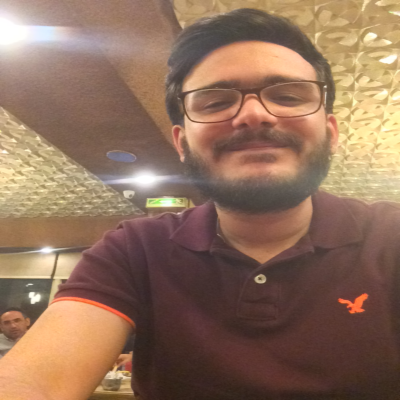
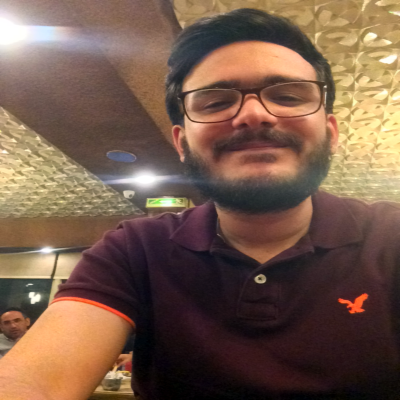
Changed Projects layout

diff --git a/index.html b/index.html
@@ -68,7 +68,7 @@
         <link rel="stylesheet" href="./src/css/style.css">
 
         <!-- ReCAPTCHA -->
-        <script src='https://www.google.com/recaptcha/api.js'></script>
+        <script src="https://www.google.com/recaptcha/api.js"></script>
     </head>
 
     <body>
@@ -76,7 +76,7 @@
             <header id="main-header">
                 <div class="row no-gutters">
                     <div class="col-lg-4 col-md-5 col-sm-12">
-                        <img src="./src/img/me2.png" alt="Osama Abbas Photo" title="My Photo">
+                        <img src="./src/img/me.png" alt="Osama Abbas Photo" title="My Photo">
                     </div>
                     <div class="col-lg-8 col-md-7 col-sm-12">
                         <div class="d-flex flex-column">
@@ -297,45 +297,45 @@
                 <div class="card card-body py-5">
                     <h3 class="text-center">What Have I Built so far</h3>
                     <small class="d-block text-center text-muted mb-5">Don't waste time here just contact me. LOL!</small>
-                    <div class="row justify-content-center">
-                        <div class="col-md-3 mb-4 projects-cols">
+                    <div class="card-columns">
+                        <div class="card mb-4 projects-cols">
                             <a href="./src/img/Picit.png" data-fancybox="images" data-caption="Not yet published" title="Picit">
-                                <img src="./src/img/Picit.png" class="img-fluid" alt="Photography Website" title="Picit">
+                                <img src="./src/img/Picit.png" class="card-img w-100" alt="Photography Website" title="Picit">
                             </a>
                         </div>
-                        <div class="col-md-3 mb-4 projects-cols">
+                        <div class="card mb-4 projects-cols">
                             <a href="./src/img/veeta.png" data-fancybox="images" data-caption="http://veeta-egypt.com/" title="Veeta Polymers Egypt">
-                                <img src="./src/img/veeta.png" class="img-fluid" alt="Veeta Polymers Egypt Website" title="Veeta Polymers Egypt">
+                                <img src="./src/img/veeta.png" class="card-img w-100" alt="Veeta Polymers Egypt Website" title="Veeta Polymers Egypt">
                             </a>
                         </div>
-                        <div class="col-md-3 mb-4 projects-cols">
+                        <div class="card mb-4 projects-cols">
                             <a href="./src/img/delta.png" data-fancybox="images" data-caption="https://www.drceg.com/" title="Delta Research Center">
-                                <img src="./src/img/delta.png" class="img-fluid" alt="Delta Research Center Website" title="Delta Research Center">
+                                <img src="./src/img/delta.png" class="card-img w-100" alt="Delta Research Center Website" title="Delta Research Center">
                             </a>
                         </div>
-                        <div class="col-md-3 mb-4 projects-cols">
+                        <div class="card mb-4 projects-cols">
                             <a href="./src/img/ihab-madi.png" data-fancybox="images" data-caption="http://ihabmadi.com/" title="Ihab Madi">
-                                <img src="./src/img/ihab-madi.png" class="img-fluid" alt="Ihab Madi Website" title="Ihab Madi Website">
+                                <img src="./src/img/ihab-madi.png" class="card-img w-100" alt="Ihab Madi Website" title="Ihab Madi Website">
                             </a>
                         </div>
-                        <div class="col-md-3 mb-4 projects-cols">
+                        <div class="card mb-4 projects-cols">
                             <a href="src/img/rowad2030.png" data-fancybox="images" data-caption="http://rowad2030.com/" title="Rowad2030">
-                                <img src="./src/img/rowad2030.png" class="img-fluid" alt="Rowad 2030" title="Rowad 2030">
+                                <img src="./src/img/rowad2030.png" class="card-img w-100" alt="Rowad 2030" title="Rowad 2030">
                             </a>
                         </div>
-                        <div class="col-md-3 mb-4 projects-cols">
+                        <div class="card mb-4 projects-cols">
                             <a href="./src/img/soufie.png" data-fancybox="images" data-caption="https://soufie.com/" title="Soufie">
-                                <img src="./src/img/soufie.png" class="img-fluid" alt="Soufie Website" title="Soufie Website">
+                                <img src="./src/img/soufie.png" class="card-img w-100" alt="Soufie Website" title="Soufie Website">
                             </a>
                         </div>
-                        <div class="col-md-3 mb-4 projects-cols">
+                        <div class="card mb-4 projects-cols">
                             <a href="./src/img/outreach.png" data-fancybox="images" data-caption="http://outreachegypt.com/" title="Outreach Egypt">
-                                <img src="./src/img/outreach.png" class="img-fluid" alt="Outreach Egypt Website" title="Outreach Egypt">
+                                <img src="./src/img/outreach.png" class="card-img w-100" alt="Outreach Egypt Website" title="Outreach Egypt">
                             </a>
                         </div>
-                        <div class="col-md-3 mb-4 projects-cols">
+                        <div class="card mb-4 projects-cols">
                             <a href="./src/img/not-found.png" data-caption="Meme design for 404 Page not found" data-fancybox="images" title="404 Page">
-                                <img src="./src/img/not-found.png" class="img-fluid" alt="404 Page not Found Design" title="Custom 404 Page not Found Page">
+                                <img src="./src/img/not-found.png" class="card-img w-100" alt="404 Page not Found Design" title="Custom 404 Page not Found Page">
                             </a>
                         </div>
                     </div>
@@ -349,10 +349,11 @@
                 </div>
                 <div class="alert alert-danger text-center my-4 mx-auto contact-alert" role="alert">
                     <h3>Currently
-                        <strong>unavailable</strong>!</h2>
-                        <h4>Please contact me through my
-                            <strong class="text-uppercase">social media</strong>
-                        </h4>
+                        <strong>unavailable</strong>
+                    </h3>
+                    <h4>Please contact me through my
+                        <strong class="text-uppercase">social media</strong>
+                    </h4>
                 </div>
                 <div class="card card-body py-5">
                     <h3>Get in Touch</h3>
@@ -364,7 +365,7 @@
                                         <span class="input-group-addon contact-pane text-white bg-danger">
                                             <i class="fa fa-user text-white"></i>
                                         </span>
-                                        <input class="form-control bg-dark text-white" type="text" placeholder="Your Name" required id="name">
+                                        <input class="form-control bg-dark text-white" type="text" placeholder="Your Name" id="name" disabled>
                                     </div>
                                 </div>
 
@@ -373,7 +374,7 @@
                                         <span class="input-group-addon contact-pane text-white bg-danger">
                                             <i class="fa fa-envelope text-white"></i>
                                         </span>
-                                        <input class="form-control bg-dark text-white" type="email" placeholder="Email Address" required id="email">
+                                        <input class="form-control bg-dark text-white" type="email" placeholder="Email Address" id="email" disabled>
                                     </div>
                                     <label class="text-muted">Your email will never be published to anyone</label>
                                 </div>
@@ -383,7 +384,7 @@
                                         <span class="input-group-addon contact-pane text-white bg-danger">
                                             <i class="fa fa-pencil text-white"></i>
                                         </span>
-                                        <textarea class="form-control bg-dark text-white" type="text" placeholder="Your Message" rows="5" required id="message"></textarea>
+                                        <textarea class="form-control bg-dark text-white" type="text" placeholder="Your Message" rows="5" id="message" disabled></textarea>
                                     </div>
                                 </div>
 
@@ -408,14 +409,14 @@
             <footer id="main-footer" class="bg-dark pt-3 pb-3">
                 <div class="container">
                     <div class="row">
-                        <!-- <div class="col-md-6">
+                        <!-- My portfolio Ads -->
+                        <div class="col-md-6">
                             <script async src="//pagead2.googlesyndication.com/pagead/js/adsbygoogle.js"></script>
-                            My portfolio Ads -->
-                        <!-- <ins class="adsbygoogle" style="display:block" data-ad-client="ca-pub-6813263338826709" data-ad-slot="6168016827" data-ad-format="auto"></ins> -->
-                        <!-- <script>
+                            <ins class="adsbygoogle" style="display:block" data-ad-client="ca-pub-6813263338826709" data-ad-slot="6168016827" data-ad-format="auto"></ins>
+                            <script>
                                 (adsbygoogle = window.adsbygoogle || []).push({});
-                            </script> -->
-                        <!-- </div> -->
+                            </script>
+                        </div>
                         <div class="col-md-6 col-sm-12 pr-4 ml-auto text-right download-resume">
                             <a href="src/files/Osama_Abbas_Resume.pdf" class="btn btn-outline-primary text-white" download="Osama_Abbas_Resume" title="My Resume">
                                 <i class="fa fa-cloud-download"></i>
@@ -436,26 +437,6 @@
         <script src="./src/js/bootstrap.min.js"></script>
         <script src="./src/js/jquery.fancybox.min.js"></script>
         <script src="./src/js/app.js"></script>
-
-        <!-- Default Statcounter code for My Portfolio https://tes3awy.github.io/ -->
-        <!-- <script type="text/javascript">
-            var sc_project = 11690356;
-            var sc_invisible = 0;
-            var sc_security = "6d9f1d85";
-            var scJsHost = (("https:" == document.location.protocol) ?
-                "https://secure." : "http://www.");
-            document.write("<sc" + "ript type='text/javascript' src='" +
-                scJsHost +
-                "statcounter.com/counter/counter.js'></" + "script>");
-        </script>
-        <noscript>
-            <div class="statcounter">
-                <a title="Web Analytics" href="http://statcounter.com/" target="_blank">
-                    <img class="statcounter" src="//c.statcounter.com/11690356/0/6d9f1d85/0/" alt="Web Analytics">
-                </a>
-            </div>
-        </noscript> -->
-        <!-- End of Statcounter Code -->
 
         <!-- reCAPTCHA Function -->
         <!-- <script>

diff --git a/gulpfile.js b/gulpfile.js
@@ -1,16 +1,21 @@
 const gulp = require("gulp");
-const postcss = require('gulp-postcss');
+const postcss = require("gulp-postcss");
 const browserSync = require("browser-sync").create();
 const sass = require("gulp-sass");
 
 // Compile Sass & Inject Into Browser
 gulp.task("sass", function() {
-    return gulp
-        .src(["./node_modules/bootstrap/scss/bootstrap.scss", "./src/scss/*.scss"])
-        .pipe(sass())
-        .pipe(postcss())
-        .pipe(gulp.dest("./src/css"))
-        .pipe(browserSync.stream());
+    return (
+        gulp
+            .src([
+                "./node_modules/bootstrap/scss/bootstrap.scss",
+                "./src/scss/*.scss",
+            ])
+            .pipe(sass())
+            // .pipe(postcss())
+            .pipe(gulp.dest("./src/css"))
+            .pipe(browserSync.stream())
+    );
 });
 
 // Move JS Files to src/js
@@ -18,9 +23,9 @@ gulp.task("js", function() {
     return gulp
         .src([
             "./node_modules/bootstrap/dist/js/bootstrap.min.js",
-            "./node_modules/jquery/dist/jquery.min.js",
+            "./bower_components/jquery/dist/jquery.min.js",
             "./node_modules/popper.js/dist/umd/popper.min.js",
-            "./node_modules/@fancyapps/fancybox/dist/jquery.fancybox.min.js"
+            "./bower_components/fancybox/dist/jquery.fancybox.min.js",
         ])
         .pipe(gulp.dest("./src/js"))
         .pipe(browserSync.stream());
@@ -52,7 +57,7 @@ gulp.task("css", function() {
     return gulp
         .src([
             "./node_modules/font-awesome/css/font-awesome.min.css",
-            "./node_modules/@fancyapps/fancybox/dist/jquery.fancybox.min.css"
+            "./bower_components/fancybox/dist/jquery.fancybox.min.css",
         ])
         .pipe(gulp.dest("./src/css"));
 });

diff --git a/src/css/style.css b/src/css/style.css
@@ -18,16 +18,18 @@ h5 {
 #main-header .port-item {
   width: 100%; }
   #main-header .port-item .fa {
-    font-size: 2rem; }
+    font-size: 2rem;
+    transition: all .4s;
+    backface-visibility: hidden; }
+  #main-header .port-item:hover {
+    cursor: pointer; }
+    #main-header .port-item:hover .fa {
+      transform: scale(1.2); }
 
 #main-header .name a {
   color: #fff;
   padding: 1.5625rem;
   font-size: 2rem; }
-
-#main-header .port-item:hover {
-  opacity: 0.8;
-  cursor: pointer; }
 
 .title .name-title {
   font-family: "Great Vibes", sans-serif;
@@ -39,8 +41,8 @@ h5 {
   .title .name a .fa {
     transition: all 0.4s; }
   .title .name a:hover {
-    transform: scale(1.4);
-    text-shadow: 0 0.5rem 1rem rgba(0, 0, 0, 0.4); }
+    text-shadow: 0 0.5rem 1rem rgba(0, 0, 0, 0.4);
+    transform: scale(1.4); }
     .title .name a:hover .fa-twitter {
       color: #0084b4; }
     .title .name a:hover .fa-linkedin {
@@ -71,7 +73,9 @@ p.bg-dark {
 
 .contact-form .form-group .input-group .form-control {
   border: 0;
-  font-size: 1rem; }
+  font-size: .8rem; }
+  .contact-form .form-group .input-group .form-control:hover {
+    cursor: not-allowed !important; }
   .contact-form .form-group .input-group .form-control:focus {
     outline: none;
     box-shadow: none; }
@@ -99,8 +103,8 @@ p.bg-dark {
 .download-resume {
   margin: 1rem 0; }
 
-.statcounter {
-  display: none; }
+.projects-cols a img {
+  box-shadow: 0 0.5rem 1.5rem rgba(0, 0, 0, 0.2); }
 
 @media (min-width: 1199px) {
   .port-item {

diff --git a/src/scss/style.scss b/src/scss/style.scss
@@ -24,6 +24,14 @@ h5 {
         width: 100%;
         .fa {
             font-size: 2rem;
+            transition: all .4s;
+            backface-visibility: hidden;
+        }
+        &:hover {
+            cursor: pointer;
+            .fa {
+                transform: scale(1.2);
+            }
         }
     }
     .name {
@@ -32,10 +40,6 @@ h5 {
             padding: 1.5625rem;
             font-size: 2rem;
         }
-    }
-    .port-item:hover {
-        opacity: 0.8;
-        cursor: pointer;
     }
 }
 
@@ -52,8 +56,8 @@ h5 {
                 transition: all 0.4s;
             }
             &:hover {
-                transform: scale(1.4);
                 text-shadow: 0 0.5rem 1rem rgba(black, 0.4);
+                transform: scale(1.4);
                 .fa-twitter {
                     color: #0084b4;
                 }
@@ -102,7 +106,10 @@ p.bg-dark {
         .input-group {
             .form-control {
                 border: 0;
-                font-size: 1rem;
+                font-size: .8rem;
+                &:hover {
+                    cursor: not-allowed !important;
+                }
                 &:focus {
                     outline: none;
                     box-shadow: none;
@@ -137,8 +144,12 @@ p.bg-dark {
     margin: 1rem 0;
 }
 
-.statcounter {
-    display: none;
+.projects-cols {
+    a {
+        img {
+            box-shadow: 0 .5rem 1.5rem rgba(black, 0.2);
+        }
+    }
 }
 
 @media (min-width: 1199px) {

diff --git a/src/js/app.js b/src/js/app.js
@@ -1,28 +1,32 @@
-// Toggling colored class
-$(".my-skills").hover(function() {
-    $(this).find('i.devicons').toggleClass("colored");
-    $(this).find('i.devicons').css("color", "none");
-});
-
-// Collapsing Sections
-$(".port-item").on("click", function(e) {
-    e.preventDefault();
-    $(".collapse").collapse("hide");
-});
-
-// FancyBox
-$("[data-fancybox]").fancybox({
-    protect: true,
-    loop: true,
-});
-
-// Toggling Tabs Smooth Scroll
-$(".toggling-tabs").on("click", function(event) {
-    var targetOffset = $(this).offset().top;
-    $("html, body").animate({ scrollTop: targetOffset }, "slow");
-});
-
 $(document).ready(function() {
+    // Toggling colored class
+    $(".my-skills").hover(function() {
+        $(this)
+            .find("i.devicons")
+            .toggleClass("colored");
+        $(this)
+            .find("i.devicons")
+            .css("color", "none");
+    });
+
+    // Collapsing Sections
+    $(".port-item").on("click", function(e) {
+        e.preventDefault();
+        $(".collapse").collapse("hide");
+    });
+
+    // FancyBox
+    $("[data-fancybox]").fancybox({
+        protect: true,
+        loop: true,
+    });
+
+    // Toggling Tabs Smooth Scroll
+    $(".toggling-tabs").on("click", function(event) {
+        var targetOffset = $(this).offset().top;
+        $("html, body").animate({ scrollTop: targetOffset }, "slow");
+    });
+
     $('[data-toggle="tooltip"]').tooltip();
 });
 
